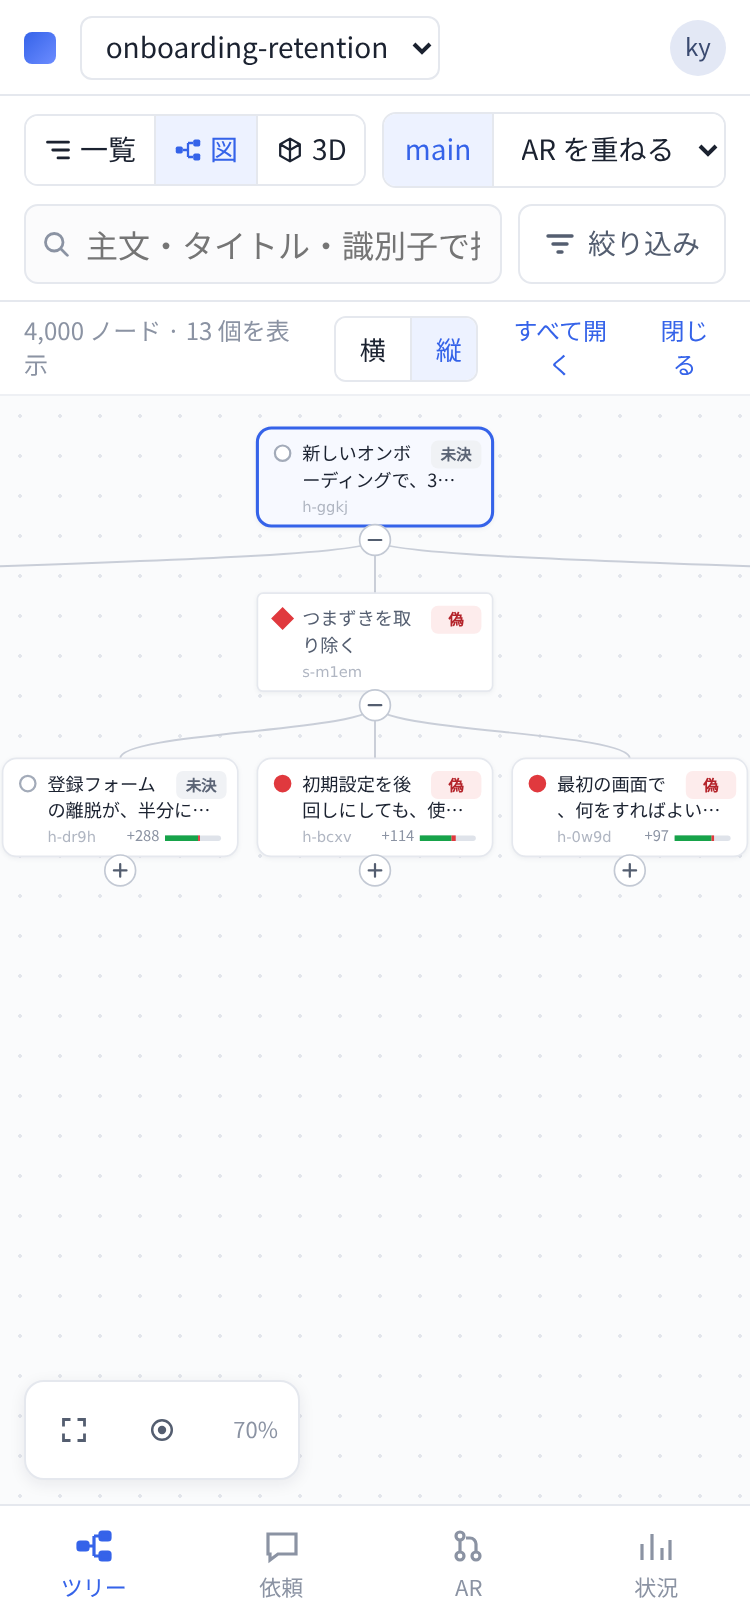
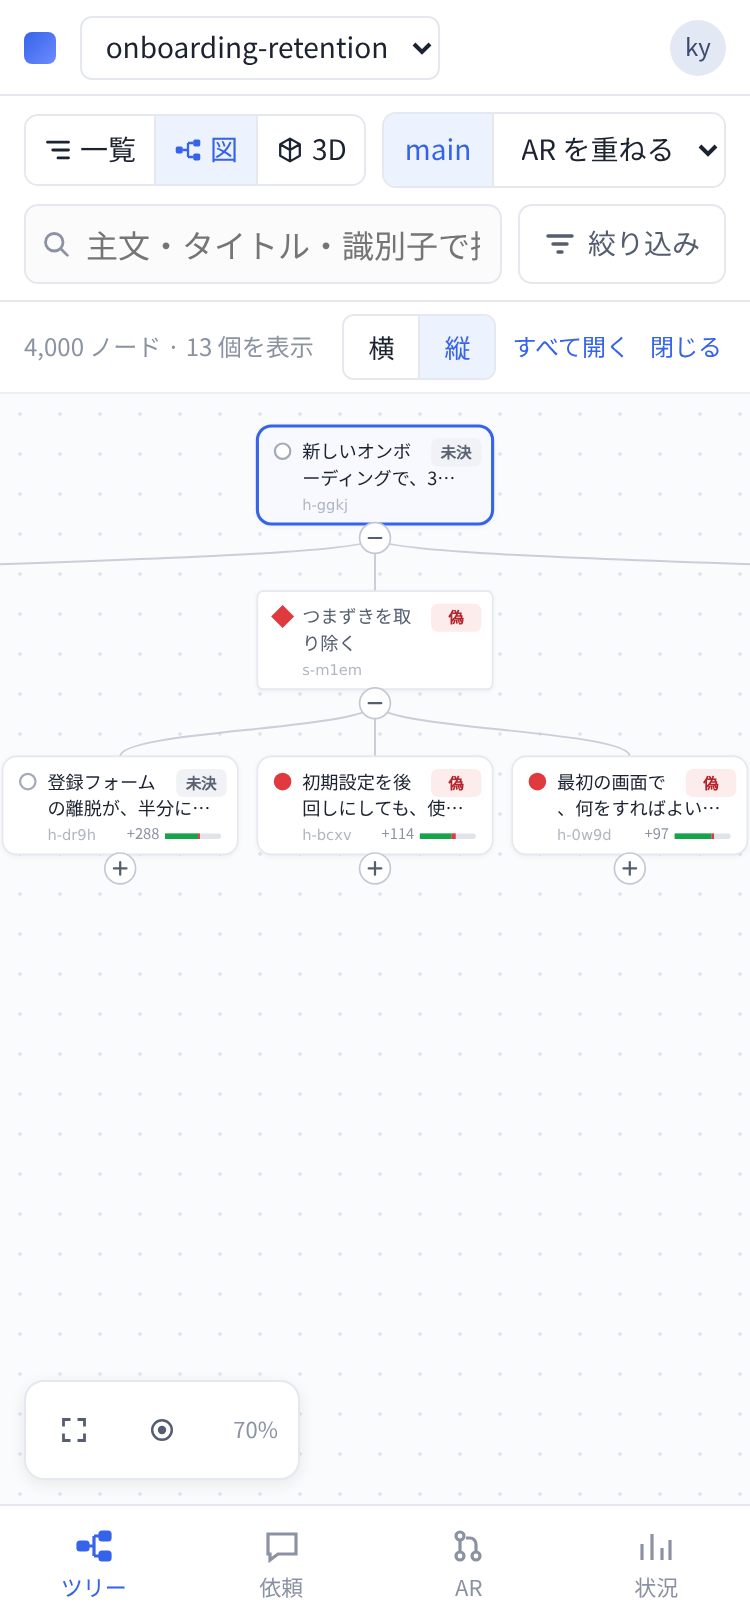
試作: 縦の最初の表示（70%、高さに入る段まで開く）、3D の層の半径と間隔、上下の角度、アクセシビリティ、文脈が失われたとき、ラベルを画面に収め道具と重ねない、操作の案内は最初の 1 回、ラベルの選び直しを 100 ms に 1 回

diff --git a/prototypes/webui-viewer/src/Viewer3D.tsx b/prototypes/webui-viewer/src/Viewer3D.tsx
@@ -20,12 +20,20 @@ interface Props {
   head: React.ReactNode;
   fitKey: string;
   onFallback: () => void;
+  onRetry: () => void;
 }
 
 const LAYER_H = 70; // 層の間隔（高さ）
 const RING_R = 90; // 1 段ごとに広がる半径
+const MIN_GAP = 22; // 同じ層のノードどうしの、円周の上の最小の間隔
 const COL = { t: new THREE.Color('#17a34a'), f: new THREE.Color('#e0393e'), u: new THREE.Color('#9aa3b2'), inactive: new THREE.Color('#d5d9e1'), white: new THREE.Color('#ffffff') };
 const HALO = { added: new THREE.Color('#17a34a'), changed: new THREE.Color('#e3a008'), removed: new THREE.Color('#e0393e'), match: new THREE.Color('#ffd43b') };
+
+// 選んだノードの道具（値と「開く」「閉じる」）の場所。ラベルのすぐ下に、画面の中に収めて置く
+function toolsRect(label: { x: number; y: number; h: number }, w: number, mobile: boolean) {
+  const tw = mobile ? 170 : 150, th = mobile ? 44 : 34;
+  return { x: Math.min(Math.max(label.x, 4), w - tw - 4), y: label.y + label.h + 4, w: tw, h: th };
+}
 
 interface Placed { id: string; pos: THREE.Vector3; parent: string | null; row: Row; size: number }
 
@@ -51,14 +59,23 @@ function layoutCone(rows: Row[], ix: Index): Map<string, Placed> {
   const out = new Map<string, Placed>();
   if (!rows.length) return out;
   w(rows[0].id);
+  // 層の半径は max(深さ × 90, その層のノード数 × 最小の間隔 ÷ 2π)。深い層にノードが詰まらないようにする
+  const perDepth = new Map<number, number>();
+  for (const r of rows) perDepth.set(r.depth, (perDepth.get(r.depth) ?? 0) + 1);
+  const radius = (d: number) => Math.max(d * RING_R, ((perDepth.get(d) ?? 0) * MIN_GAP) / (2 * Math.PI));
+  // 円が広がったら、層の間隔も広げて、円錐の形（高さと半径の比）を保つ
+  const maxD = Math.max(...perDepth.keys());
+  let maxR = 0;
+  for (let d = 0; d <= maxD; d++) maxR = Math.max(maxR, radius(d));
+  const layerH = Math.max(LAYER_H, maxD ? (maxR * 0.8) / maxD : LAYER_H);
   const place = (id: string, a0: number, a1: number) => {
     const r = byId.get(id)!;
     const th = (a0 + a1) / 2;
-    const rad = r.depth * RING_R;
+    const rad = radius(r.depth);
     const st = ix.stats.get(id)!;
     // 閉じた部分木は、ノード数に応じて大きく描く
     const size = r.hasChildren && !r.open ? 1 + Math.log10(st.total) * 0.55 : 1;
-    out.set(id, { id, pos: new THREE.Vector3(Math.cos(th) * rad, -r.depth * LAYER_H, Math.sin(th) * rad), parent: parent.get(id) ?? null, row: r, size });
+    out.set(id, { id, pos: new THREE.Vector3(Math.cos(th) * rad, -r.depth * layerH, Math.sin(th) * rad), parent: parent.get(id) ?? null, row: r, size });
     const cs = kids.get(id);
     if (!cs) return;
     const total = weight.get(id)!;
@@ -77,6 +94,12 @@ export default function Viewer3D(p: Props) {
   const host = useRef<HTMLDivElement>(null);
   const labelsRef = useRef<HTMLDivElement>(null);
   const [failed, setFailed] = useState(false);
+  const [lost, setLost] = useState(false);
+  // 操作の案内：このタブで最初の 1 回だけ出す。閉じるか操作したら消し、? で出し直せる
+  const [hint, setHint] = useState(() => sessionStorage.getItem('3d-hint') !== 'seen');
+  const hideHint = () => { setHint(false); sessionStorage.setItem('3d-hint', 'seen'); };
+  const hideRef = useRef(hideHint);
+  hideRef.current = hideHint;
   const [selScreen, setSelScreen] = useState<{ x: number; y: number } | null>(null);
   const placed = useMemo(() => layoutCone(p.rows, p.ix), [p.rows, p.ix]);
 
@@ -99,7 +122,11 @@ export default function Viewer3D(p: Props) {
     }
     renderer.setPixelRatio(Math.min(window.devicePixelRatio, 2));
     renderer.setClearColor('#fafbfc');
+    renderer.domElement.setAttribute('role', 'img');
+    renderer.domElement.setAttribute('aria-label', 'スナップショットツリーの 3D。アウトラインで同じ内容を読めます');
     el.prepend(renderer.domElement);
+    // 5 WebGL の文脈が失われたとき（モバイルで裏に回したときなど）は、作り直しを促す
+    renderer.domElement.addEventListener('webglcontextlost', (e) => { e.preventDefault(); setLost(true); });
     const scene = new THREE.Scene();
     scene.add(new THREE.HemisphereLight('#ffffff', '#c9d1e0', 2.2));
     const sun = new THREE.DirectionalLight('#ffffff', 1.2);
@@ -111,6 +138,11 @@ export default function Viewer3D(p: Props) {
     controls.dampingFactor = 0.12;
     controls.touches = { ONE: THREE.TOUCH.ROTATE, TWO: THREE.TOUCH.DOLLY_PAN };
     controls.screenSpacePanning = true;
+    // 上下に回せる角度を絞る（下から見上げて、根が下に見えないようにする）
+    controls.minPolarAngle = 0.08 * Math.PI;
+    controls.maxPolarAngle = 0.56 * Math.PI;
+    const reduce = matchMedia('(prefers-reduced-motion: reduce)').matches;
+    if (reduce) controls.enableDamping = false;
     const MAX = 8000;
     const mat = new THREE.MeshLambertMaterial();
     // 三角形を少なくする（球は 80 面、菱形は 8 面）。ノード 4,000 個でも、端末の GPU の負担を小さくするため
@@ -150,7 +182,12 @@ export default function Viewer3D(p: Props) {
         renderer.render(scene, camera);
         const t1 = performance.now();
         s.frames++;
-        updateLabels();
+        // どのラベルを出すかの選び直しは重いので、動いているあいだは 100 ms に 1 回にする。出しているラベルの位置は、毎フレーム動かす
+        const now = performance.now();
+        const ls = ((window as unknown as { __3dLab?: { pick: number; np: number; move: number; nm: number } }).__3dLab ??= { pick: 0, np: 0, move: 0, nm: 0 });
+        const tl = performance.now();
+        if (!moved || now - lastPick.current > 100) { updateLabels(); lastPick.current = now; ls.pick += performance.now() - tl; ls.np++; }
+        else { moveLabels(); ls.move += performance.now() - tl; ls.nm++; }
         const st = ((window as unknown as { __3dStat?: { r: number; l: number; n: number } }).__3dStat ??= { r: 0, l: 0, n: 0 });
         st.r += t1 - t0; st.l += performance.now() - t1; st.n++;
         s.dirty = false;
@@ -279,7 +316,7 @@ export default function Viewer3D(p: Props) {
       if (!h || h.instanceId === undefined) return null;
       return (h.object === s.hyp ? s.ids.hyp : s.ids.story)[h.instanceId];
     };
-    const onDown = (e: PointerEvent) => { down = { x: e.clientX, y: e.clientY, t: performance.now() }; };
+    const onDown = (e: PointerEvent) => { down = { x: e.clientX, y: e.clientY, t: performance.now() }; if (sessionStorage.getItem('3d-hint') !== 'seen') hideRef.current(); };
     const onUp = (e: PointerEvent) => {
       if (!down || Math.hypot(e.clientX - down.x, e.clientY - down.y) > 5) { down = null; return; }
       down = null;
@@ -296,6 +333,31 @@ export default function Viewer3D(p: Props) {
   // ラベル：近いものだけを出す（デスクトップ 28、モバイル 12）。選んだノードと根はいつも出す
   const latest = useRef({ placed, p });
   latest.current = { placed, p };
+  const lastPick = useRef(0);
+  const shown = useRef<string[]>([]);
+  // 出しているラベルの位置だけを、今のカメラで動かす
+  function moveLabels() {
+    const s = g.current, box = labelsRef.current;
+    if (!s || !box) return;
+    const { placed: pl, p: pp } = latest.current;
+    const w = box.clientWidth, h = box.clientHeight;
+    const v = new THREE.Vector3();
+    shown.current.forEach((id, i) => {
+      const n = pl.get(id);
+      const d = box.children[i] as HTMLDivElement | undefined;
+      if (!n || !d) return;
+      v.copy(n.pos).project(s.camera);
+      const x = (v.x * 0.5 + 0.5) * w, y = (-v.y * 0.5 + 0.5) * h;
+      const lw = Math.min(textOf(pp.ix.byId.get(id)!).length, 16) * 12.5 + 14;
+      const lx = Math.min(Math.max(x + 12, 4), w - lw - 4), ly = Math.min(Math.max(y - 10, 4), h - 24);
+      d.style.transform = `translate(${Math.round(lx)}px, ${Math.round(ly)}px)`;
+      if (id === pp.selected) {
+        const t = toolsRect({ x: lx, y: ly, h: 20 }, w, pp.mobile);
+        setSelScreen((prev) => (prev && Math.abs(prev.x - t.x) < 1 && Math.abs(prev.y - t.y) < 1 ? prev : { x: t.x, y: t.y }));
+      }
+    });
+  }
+
   function updateLabels() {
     const s = g.current, box = labelsRef.current;
     if (!s || !box) return;
@@ -314,15 +376,23 @@ export default function Viewer3D(p: Props) {
     const show = new Map<string, { x: number; y: number }>();
     const root = pp.rows[0]?.id;
     for (const c of cand) if (c.id === pp.selected || c.id === root) show.set(c.id, c);
-    // 重なるラベルは出さない（ラベルの幅は、文字数から見積もる）
+    // ラベルは画面の中に収める。重なるラベルと、選んだノードの道具に重なるラベルは出さない（幅は文字数から見積もる）
     const wOf = (id: string) => Math.min(textOf(pp.ix.byId.get(id)!).length, 16) * 12.5 + 14;
-    const taken: { x: number; y: number; w: number }[] = [...show.entries()].map(([id, c]) => ({ x: c.x + 12, y: c.y - 10, w: wOf(id) }));
+    const at = (id: string, c: { x: number; y: number }) => { const lw = wOf(id); return { x: Math.min(Math.max(c.x + 12, 4), w - lw - 4), y: Math.min(Math.max(c.y - 10, 4), h - 24), w: lw, h: 20 }; };
+    type R = { x: number; y: number; w: number; h: number };
+    const hit = (a: R, b: R) => a.x < b.x + b.w + 4 && b.x < a.x + a.w + 4 && a.y < b.y + b.h + 2 && b.y < a.y + a.h + 2;
+    const pos = new Map<string, R>();
+    const taken: R[] = [];
+    for (const [id, c] of show) { const r = at(id, c); pos.set(id, r); taken.push(r); }
+    const sc0 = pp.selected ? show.get(pp.selected) : undefined;
+    const tools = sc0 ? toolsRect(pos.get(pp.selected!)!, w, pp.mobile) : null;
+    if (tools) taken.push(tools);
     for (const c of cand) {
       if (show.size >= limit) break;
       if (show.has(c.id)) continue;
-      const r = { x: c.x + 12, y: c.y - 10, w: wOf(c.id) };
-      if (taken.some((t) => r.x < t.x + t.w + 4 && t.x < r.x + r.w + 4 && Math.abs(t.y - r.y) < 22)) continue;
-      show.set(c.id, c); taken.push(r);
+      const r = at(c.id, c);
+      if (taken.some((t) => hit(r, t))) continue;
+      show.set(c.id, c); pos.set(c.id, r); taken.push(r);
     }
     // 使い回す div の数を合わせる
     while (box.children.length < limit + 2) { const d = document.createElement('div'); d.className = 'l3'; box.appendChild(d); }
@@ -338,16 +408,32 @@ export default function Viewer3D(p: Props) {
         d.textContent = txt;
         d.className = `l3 ${id === pp.selected ? 'sel' : ''} ${node.value === true ? 'v-true' : node.value === false ? 'v-false' : 'v-null'}`;
       }
-      d.style.transform = `translate(${Math.round(c.x + 12)}px, ${Math.round(c.y - 10)}px)`;
+      const r = pos.get(id)!;
+      d.style.transform = `translate(${Math.round(r.x)}px, ${Math.round(r.y)}px)`;
+      void c;
       d.style.display = '';
     }
     for (; i < box.children.length; i++) (box.children[i] as HTMLDivElement).style.display = 'none';
-    const sc = pp.selected ? show.get(pp.selected) : undefined;
-    setSelScreen((prev) => (sc ? (prev && Math.abs(prev.x - sc.x) < 1 && Math.abs(prev.y - sc.y) < 1 ? prev : { x: sc.x, y: sc.y }) : null));
+    shown.current = [...show.keys()];
+    setSelScreen((prev) => (tools ? (prev && Math.abs(prev.x - tools.x) < 1 && Math.abs(prev.y - tools.y) < 1 ? prev : { x: tools.x, y: tools.y }) : null));
   }
 
   const selNode = p.selected ? p.ix.byId.get(p.selected) : undefined;
   const selRow = p.selected ? placed.get(p.selected)?.row : undefined;
+
+  if (lost) {
+    return (
+      <section className="graph-pane empty-3d">
+        {p.head}
+        <div className="empty-box">
+          <div className="empty-title">3D の描画が止まりました</div>
+          <p>端末が 3D の描画を止めました（画面を裏に回したときなどに起きます）。</p>
+          <button className="btn" onClick={p.onRetry}>3D を作り直す</button>{' '}
+          <button className="btn" onClick={p.onFallback}>図で見る</button>
+        </div>
+      </section>
+    );
+  }
 
   if (failed) {
     return (
@@ -381,14 +467,22 @@ export default function Viewer3D(p: Props) {
       }}>
         <div className="labels3" ref={labelsRef} />
         {selNode && selScreen && (
-          <div className="sel3" style={{ transform: `translate(${Math.round(selScreen.x + 12)}px, ${Math.round(selScreen.y + 14)}px)` }}>
+          <div className="sel3" style={{ transform: `translate(${Math.round(selScreen.x)}px, ${Math.round(selScreen.y)}px)` }}>
             <span className={`val ${selNode.value === true ? 'v-true' : selNode.value === false ? 'v-false' : 'v-null'}`}>{vLabel(selNode.value)}</span>
             {selRow?.hasChildren && !p.filtered && (
               <button className="btn3" onClick={() => p.onToggle(selNode.id)}>{selRow.open ? '閉じる' : `開く（${(p.ix.stats.get(selNode.id)?.total ?? 1) - 1}）`}</button>
             )}
           </div>
         )}
-        <div className="hint3">{p.mobile ? '1 本の指で回す・2 本の指でズームと移動・押して選ぶ' : 'ドラッグで回す・ホイールでズーム・右ドラッグで移動・押して選ぶ・ダブルクリックで開閉'}</div>
+        {hint ? (
+          <div className="hint3">
+            <span>{p.mobile ? '1 本の指で回す・2 本の指でズームと移動・押して選ぶ' : 'ドラッグで回す・ホイールでズーム・右ドラッグで移動・押して選ぶ・ダブルクリックで開閉'}</span>
+            <button className="link" onClick={hideHint} aria-label="案内を閉じる">閉じる</button>
+          </div>
+        ) : (
+          <button className="help3" onClick={() => setHint(true)} aria-label="操作の案内を出す">?</button>
+        )}
+        <div className="sr-only" aria-live="polite">{selNode ? `${textOf(selNode)}。値は${vLabel(selNode.value)}` : ''}</div>
       </div>
     </section>
   );

diff --git a/prototypes/webui-viewer/src/App.tsx b/prototypes/webui-viewer/src/App.tsx
@@ -69,7 +69,13 @@ export function App() {
   const [showInactive, setShowInactive] = useState(params.get('inactive') !== '0');
   const searchRef = useRef<HTMLInputElement>(null);
   const [view, setView] = useState<'outline' | 'graph' | '3d'>((['graph', '3d'].includes(params.get('view') ?? '') ? params.get('view') : 'outline') as 'outline' | 'graph' | '3d');
-  const [vertical, setVertical] = useState(params.get('orient') === 'v');
+  const [retry3d, setRetry3d] = useState(0);
+  const [vertical, setVerticalRaw] = useState(params.get('orient') === 'v');
+  // 縦にしたら、画面の高さに入る段まで開く（デスクトップ 4 段、モバイル 3 段）
+  const openLevels = useCallback((ixx: Index) => {
+    const lv = matchMedia('(max-width: 767px)').matches ? 3 : 4;
+    setExpanded((e) => { const s = new Set(e); for (const n of ixx.nodes) if ((ixx.depth.get(n.id) ?? 0) < lv - 1) s.add(n.id); return s; });
+  }, []);
   const mobile = useMobile();
   const [sheet, setSheet] = useState(params.get('sheet') === '1');
   // 検索の語は、入力が止まって 300 ms たってから図を収め直す
@@ -90,6 +96,7 @@ export function App() {
       const depthOpen = Number(params.get('open') ?? 2);
       const open = new Set(r.nodes.filter((n) => (ix.depth.get(n.id) ?? 0) < depthOpen).map((n) => n.id));
       setMain({ ix, commit: r.commit, number: r.number });
+      if (params.get('orient') === 'v' && !params.get('open')) setTimeout(() => openLevels(ix));
       if (!params.get('node')) setSelected(ix.rootId);
       // 試作のスクリーンショット用：検証結果のある深い葉を選ぶ
       if (params.get('pick') === 'verdict') {
@@ -188,6 +195,7 @@ export function App() {
   }, []);
 
   if (!main || !ix) return <div className="loading">読み込み中…</div>;
+  const setVertical = (v: boolean) => { setVerticalRaw(v); if (v) openLevels(ix); };
 
   const total = ix.nodes.length;
   const graphHead = (
@@ -364,6 +372,8 @@ export function App() {
                 head={graphHead}
                 fitKey={`${settledQuery.trim()}|${[...filters].sort().join(',')}|${showInactive}`}
                 onFallback={() => setView('graph')}
+                onRetry={() => setRetry3d((x) => x + 1)}
+                key={retry3d}
               />
             </Suspense>
             </LoadGuard>

diff --git a/prototypes/webui-viewer/src/GraphView.tsx b/prototypes/webui-viewer/src/GraphView.tsx
@@ -86,6 +86,8 @@ export function GraphView(p: Props) {
   const anim = useRef<number | null>(null);
   const animateTo = useCallback((to: View) => {
     if (anim.current) cancelAnimationFrame(anim.current);
+    // 動きを減らす設定のときは、動かさずにすぐ移る
+    if (matchMedia('(prefers-reduced-motion: reduce)').matches) { setView(to); return; }
     const from = viewRef.current;
     const t0 = performance.now();
     const step = (t: number) => {
@@ -108,8 +110,9 @@ export function GraphView(p: Props) {
   const frame = useCallback((lower: number): View => {
     const pad = 16;
     if (V) {
-      // 縦：根を上に寄せ、開いている部分が収まるまで縮める。横に収まらなければ、根を横の真ん中に置く
-      const k = Math.max(p.mobile && lower === LOD_K ? 0.7 : lower, Math.min(1, (box.w - pad * 2) / layout.width, (box.h - pad * 2) / layout.height));
+      // 縦：根を上に寄せ、開いている部分が収まるまで縮める。ただし最初の表示では 70% より縮めない（兄弟が横に並ぶので、幅に収めるとすぐ読めない大きさになる）。
+      // 幅に入らない分は、横のパンで見る。横に収まらなければ、根を横の真ん中に置く
+      const k = Math.max(lower === LOD_K ? 0.7 : lower, Math.min(1, (box.w - pad * 2) / layout.width, (box.h - pad * 2) / layout.height));
       const root = p.rows.length ? layout.pos.get(p.rows[0].id) : undefined;
       const x = k * layout.width <= box.w - pad * 2 ? (box.w - k * layout.width) / 2 : box.w / 2 - k * ((root?.x ?? 0) + size.w / 2);
       return { k, x, y: pad };

diff --git a/prototypes/webui-viewer/src/styles.css b/prototypes/webui-viewer/src/styles.css
@@ -348,3 +348,10 @@ mark { background: #ffe58a; color: inherit; border-radius: 2px; padding: 0 1px; 
 .sel3 { background: rgba(255,255,255,.95); border: 1px solid #c3cde8; border-radius: 8px; padding: 3px; box-shadow: 0 2px 8px rgba(20,30,50,.12); }
 .seg .short { display: none; }
 @media (max-width: 767px) { .seg .full { display: none; } .seg .short { display: inline; } .seg.mode button { padding: 7px 9px; gap: 4px; } }
+.hint3 { pointer-events: auto; display: flex; gap: 8px; align-items: center; }
+.help3 { position: absolute; left: 12px; bottom: 12px; width: 32px; height: 32px; border-radius: 50%; border: 1px solid var(--line); background: #fff; color: var(--sub); font-weight: 700; cursor: pointer; }
+@media (max-width: 767px) { .help3 { width: 40px; height: 40px; } }
+.sr-only { position: absolute; width: 1px; height: 1px; overflow: hidden; clip: rect(0 0 0 0); white-space: nowrap; }
+.tree-head .link, .seg.mini button { white-space: nowrap; }
+.tree-head .dim { white-space: nowrap; overflow: hidden; text-overflow: ellipsis; min-width: 0; }
+@media (max-width: 767px) { .tree-head { gap: 6px; } .tree-head .link { padding: 0 2px; } }
